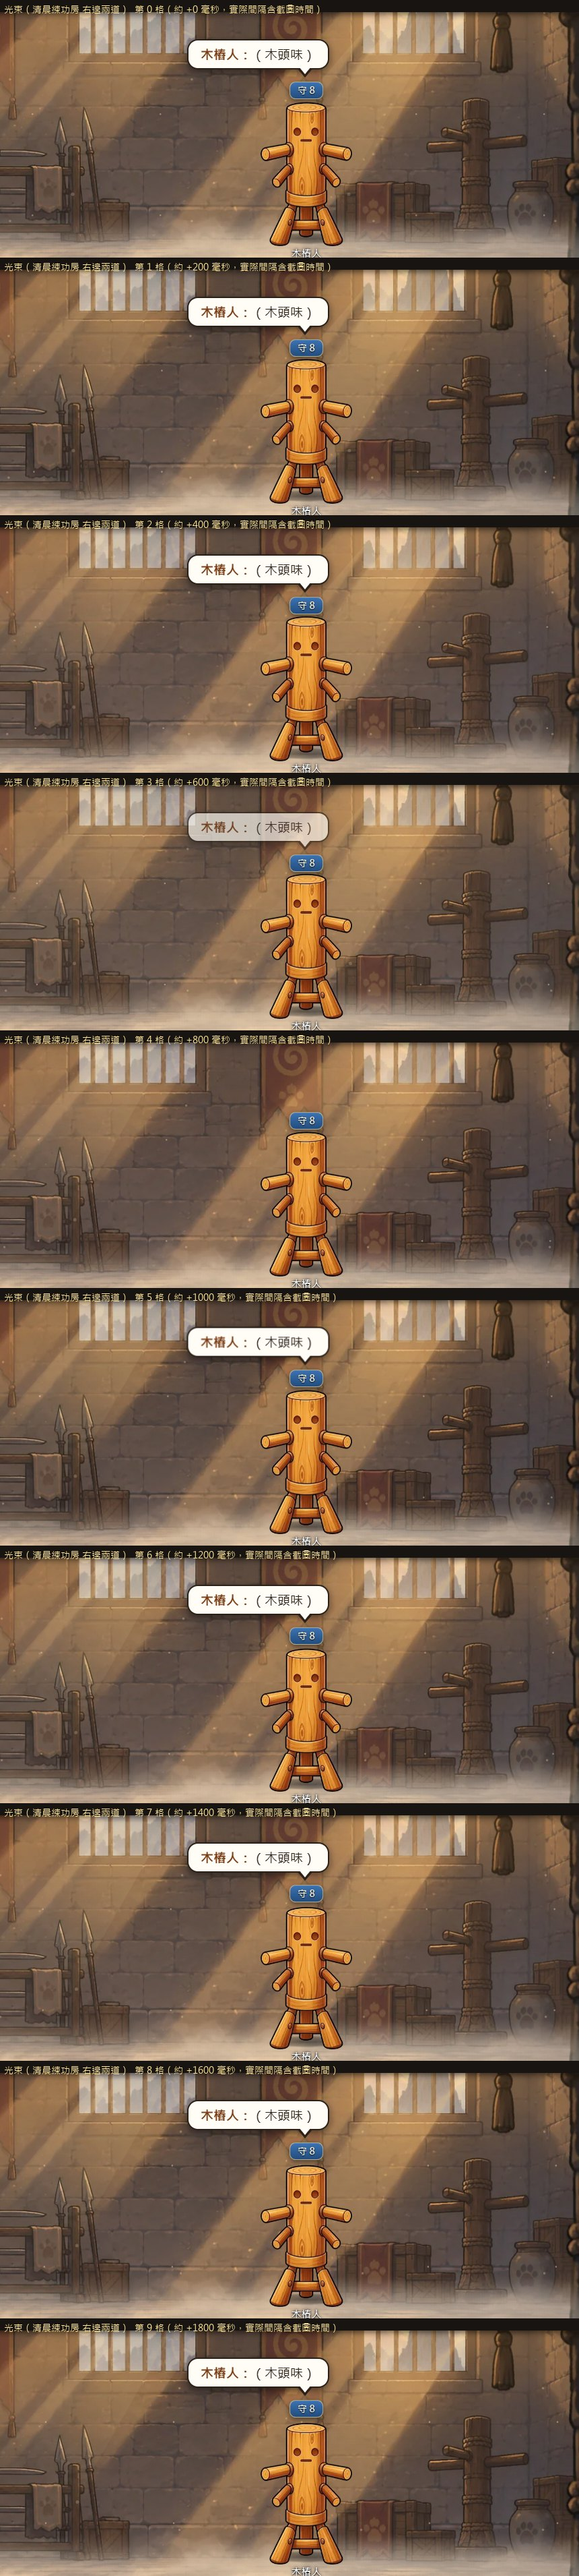
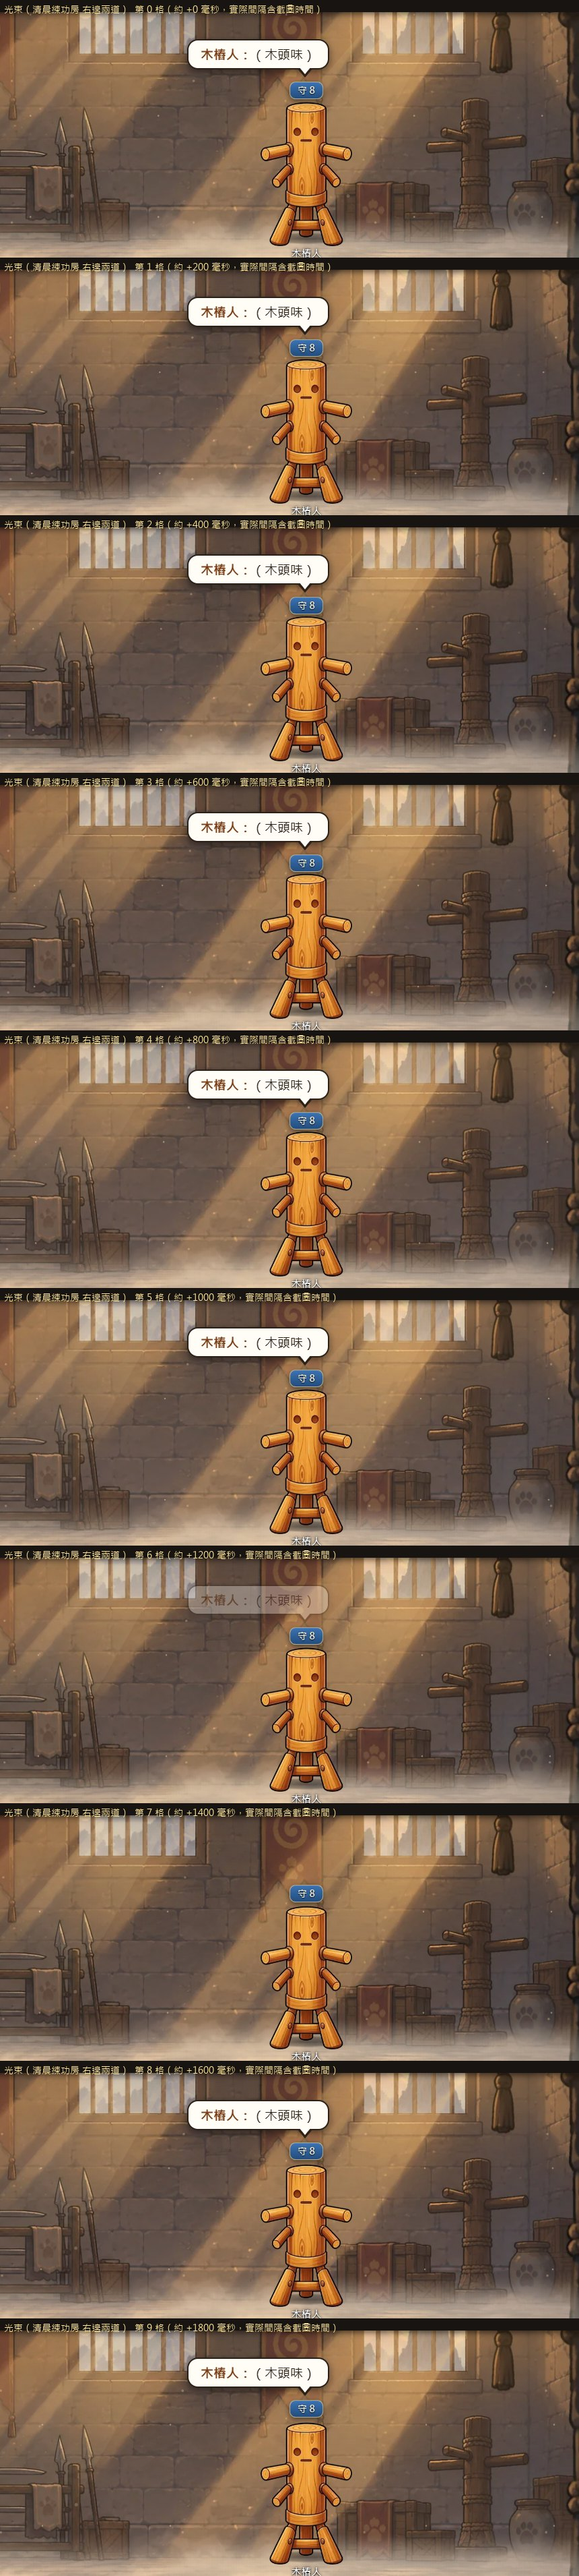
背景線：戰鬥背景輪替改用關內樓層，每一關第 1、2 層都是舊圖（第二關開頭不會撞上排在預載最後的新圖）；截圖改拍第二關 18～20 層、報告同步

diff --git a/tests/ui/art26_bg_1006.test.ts b/tests/ui/art26_bg_1006.test.ts
@@ -20,8 +20,12 @@ describe('新戰鬥背景跟舊的一起輪', () => {
       expect(fresh.length, `${tier} 至少兩張新圖`).toBeGreaterThanOrEqual(2);
       for (const k of fresh) expect(seen.has(k), k).toBe(true);
     }
-    expect(tierBgKey(1).startsWith('bg/art26_')).toBe(false);
-    expect(tierBgKey(2).startsWith('bg/art26_')).toBe(false);
+    // 每一關的第 1、2 層（含過關動畫用的 16、31 層）都是舊圖：新圖排在進關預載的最後面，慢網路下最晚到
+    for (const f of [1, 2, 16, 17, 31, 32]) expect(tierBgKey(f).startsWith('bg/art26_'), `${f} 層`).toBe(false);
+    // 舊三張在原本輪到的樓層照舊（關內樓層取餘數，15 是 3 的倍數）
+    expect(tierBgKey(16)).toBe('bg/mid_b');
+    expect(tierBgKey(31)).toBe('bg/top_b');
+    expect(tierBgKey(18)).toBe('bg/art26_mid_1');
   });
 
   it('新圖沒進倉的號碼會被跳過，全都沒有就退回原本三張輪', () => {

diff --git a/src/ui/screenbg.ts b/src/ui/screenbg.ts
@@ -73,7 +73,8 @@ export function tierBgKey(floor: number): string {
   // 2026-10-06 新背景（`art26Keys`）排在舊三張後面一起輪；沒進倉的跳過（只剩舊三張就是原本的輪法）。
   // 清單還沒讀進來（一張都查不到）時退回該色調的第一張
   const keys = [...BG_VARIANTS.map((v) => `bg/${tier}${v}`), ...art26Keys(tier)].filter((k) => !artUrl('bg', k).startsWith('data:'));
-  return keys[Math.abs(floor) % keys.length] ?? `bg/${tier}`;
+  // 用關內樓層（1～15）取餘數：每一關的第 1、2 層都輪到舊圖（15 是 3 的倍數，舊三張的輪法跟原本一模一樣）
+  return keys[((Math.abs(floor) - 1) % 15 + 1) % keys.length] ?? `bg/${tier}`;
 }
 
 /**

diff --git a/docs/審查報告/2026-10-06_美術方向/art-bg-1006_報告.md b/docs/審查報告/2026-10-06_美術方向/art-bg-1006_報告.md
@@ -18,7 +18,7 @@
 | `src/ui/bgacts.ts:48-49` | `SCREEN_BASES` 加 `art26_mapmid`（地圖中層，跟地圖底圖同一套 `_mid`／`_top` 換皮） |
 | `src/ui/bgacts.ts:87-88` | 每關底圖清單最後面加上這一關的新戰鬥背景 |
 | `src/ui/bgacts.ts:137-138` | `deferredBgKeys` 把第一關三張新背景也算延後（開場不載，進入一局才由 `preloadAct(1)` 抓） |
-| `src/ui/screenbg.ts:2, 73-76` | `tierBgKey`：舊三張＋新三張一起輪（樓層取 6 的餘數）。manifest 裡沒有的號碼跳過；全部查不到就退回該色調第一張 |
+| `src/ui/screenbg.ts:2, 73-77` | `tierBgKey`：舊三張＋新三張一起輪，用**關內樓層**（1～15）取 6 的餘數，所以每一關的第 1、2 層（含過關動畫用的 16、31 層）都是舊圖，舊三張在原本輪到的樓層也照舊（15 是 3 的倍數）。manifest 裡沒有的號碼跳過；全部查不到就退回該色調第一張 |
 | `src/ui/preload.ts:121-123` | `preloadAct` 把新戰鬥背景排到魔物後面（原因見③的「進戰鬥」） |
 | `src/ui/ambient.ts:48-215` | 背景動效：設定格式 `BgFx`、每張設定 `BG_FX`、霧帶貼圖（程式畫、只畫一次）、燈的閃爍、呼吸倍率、`drawBgFx` |
 | `src/ui/ambient.ts:293` | `draw()` 在浮塵底下多畫這一張背景的動效 |
@@ -31,7 +31,7 @@
 | `tools/dump_monster_acts.test.ts:8, 41-43` | 第一關三張新背景記 0（跟秘寶忍具圖示「進入一局才補」同一類） |
 | `tests/ui/bgacts.test.ts` | 第一關清單加上新鍵；「第一關的圖一張都不准延後」改成「只有新戰鬥背景可以延後、地圖中層不准延後、二三關的新圖一定延後」 |
 | `tests/ui/ambient_perf_0929.test.ts:12` | 釘住的字串跟著 combat.ts 那一行改 |
-| `tests/ui/art26_bg_1006.test.ts`（新） | 輪替（第 1、2 層一定是舊圖、新圖都輪得到、少圖會退回）、動效設定都對得到倉裡的圖、呼吸 1.00～1.015／20 秒、不碰 filter 與 box-shadow、只有一張畫布＋一張離屏霧帶、地圖中層不動不擋點擊 |
+| `tests/ui/art26_bg_1006.test.ts`（新） | 輪替（每關第 1、2 層與 16、17、31、32 層一定是舊圖、16 層照舊是 mid_b、新圖都輪得到、少圖會退回）、動效設定都對得到倉裡的圖、呼吸 1.00～1.015／20 秒、不碰 filter 與 box-shadow、只有一張畫布＋一張離屏霧帶、地圖中層不動不擋點擊 |
 | `tools/add_art26_bg.py`（新） | 進倉工具，說明見② |
 | `tools/perf/composite.mjs:50, 53` | 新增兩個環境變數：`PERF_FLOOR`（換樓層＝換背景，預設照舊 2）、`PERF_QUERY`（例如 `?debug&bgfx=0` 關掉動效做對照） |
 | `tools/perf/measure.mjs:142-160` | 新增 `PERF_FLOOR`（預設照舊 2） |
@@ -155,9 +155,9 @@
 ## ⑤ 沒做的、做不到的、拿不準的
 
 1. **首載程式只剩 0.2 KB**（699.8／700.0 KB）。牌線、介面線如果也改到首載那幾支（`assets`、`main` 那兩塊），合併後幾乎一定超標。這條線沒去調高預算，那是使用者的決定。
-2. **進戰鬥那一項 +7.5%**，在門檻內但不遠，而且是量最壞的情況：清空快取、慢網路、開局後直接跳到第 3 層。正常玩法第 1、2 層一定是舊背景（測試有釘住），新圖到第 3 層才輪到。正常順序（第 1 層開打）沒有另外量。
+2. **進戰鬥那一項 +7.5%**，在門檻內但不遠，而且是量最壞的情況：清空快取、慢網路、開局後直接跳到第 3 層。正常玩法每一關的第 1、2 層一定是舊背景（測試有釘住），新圖到該關第 3 層才輪到；第二、三關的新圖在過關畫面時就開始抓（排在那一關魔物後面）。正常順序（第 1 層開打）與第二關開頭沒有另外量。
 3. **舊的九張背景沒有加動效**。設定格式支援（在 `BG_FX` 加一筆就好），但舊圖有 106～113% 的放大，燈位要換算成舞台座標，這次沒做。舊背景照舊只有原本的火光、暖光、浮塵。
-4. **輪替方式變了**：一關內六張輪，第 1、2 層一定是舊圖。舊三張出現的頻率從每層變成每六層三次。牆、地板在相鄰樓層的變化比原本多。
+4. **輪替方式變了**：一關內六張輪，用關內樓層取餘數，每一關第 1、2 層一定是舊圖（第一版用跨關累計樓層，第二關第 16、17 層會輪到新圖、而新圖又排在預載最後——審查時抓到、已改）。舊三張出現的頻率從每層變成每六層三次。牆、地板在相鄰樓層的變化比原本多。
 5. **動效的強弱是看截圖調的，沒有真人看過動起來的樣子**。霧的濃度（每張 0.35～0.6）、光束最亮 0.07～0.12、燈 0.28～0.36，都可能需要使用者實際看過再調。膠卷只能看出有在動，看不出順不順眼。
 6. **新背景的品質 85 比舊的 66 大兩三倍**。不算首載，但進第二、三關時過關畫面要多抓約 250 KB。
 7. `npm run docs:dump` 也會重寫 `docs/事件文案.md`、`docs/怪物工作檯.json`、`docs/牌池總表.json` 三份。內容跟這條線無關，我還原了，沒提交；測試用倉庫裡那一版照樣全過。那三份為什麼重產會不一樣，沒有追。
@@ -168,7 +168,7 @@
 - `src/ui/screens/combat.ts:2810`：一行，`ambientCanvas(bgKey, bg)`。介面線如果也改到這一帶，要手動合。
 - `src/ui/screens/map.ts:178-180`、`src/ui/styles/map.css:28-38`：地圖中層。介面線改節點與路線樣式時，**`.map-mid` 要留在 `.map-bg` 之後、`.map-edges`（路線）之前**，疊的順序才對。
 - `src/ui/preload.ts:121-123`：不在分工表裡，因為效能才改，見③。
-- `src/ui/screenbg.ts:2, 73-76`：分工表把這支的 `--ui-*` 登記分給介面線，這裡改的是 `tierBgKey`，不同段落。
+- `src/ui/screenbg.ts:2, 73-77`：分工表把這支的 `--ui-*` 登記分給介面線，這裡改的是 `tierBgKey`，不同段落。
 - `public/assets/manifest.json`：只在 bg 那一組最後加 12 行，前一行多一個逗號。另外兩條線也加的話會在同一個位置撞到，照順序併起來就好。**不要用 `add_screen_bg.py`／`add_icons.py` 那種縮排 1 的寫法重寫整份。**
 - `docs/分關載入.json`：合併完重跑一次 `npm run docs:dump`，然後只提交這一份。
 - **首載程式預算**：見⑤第 1 點。
